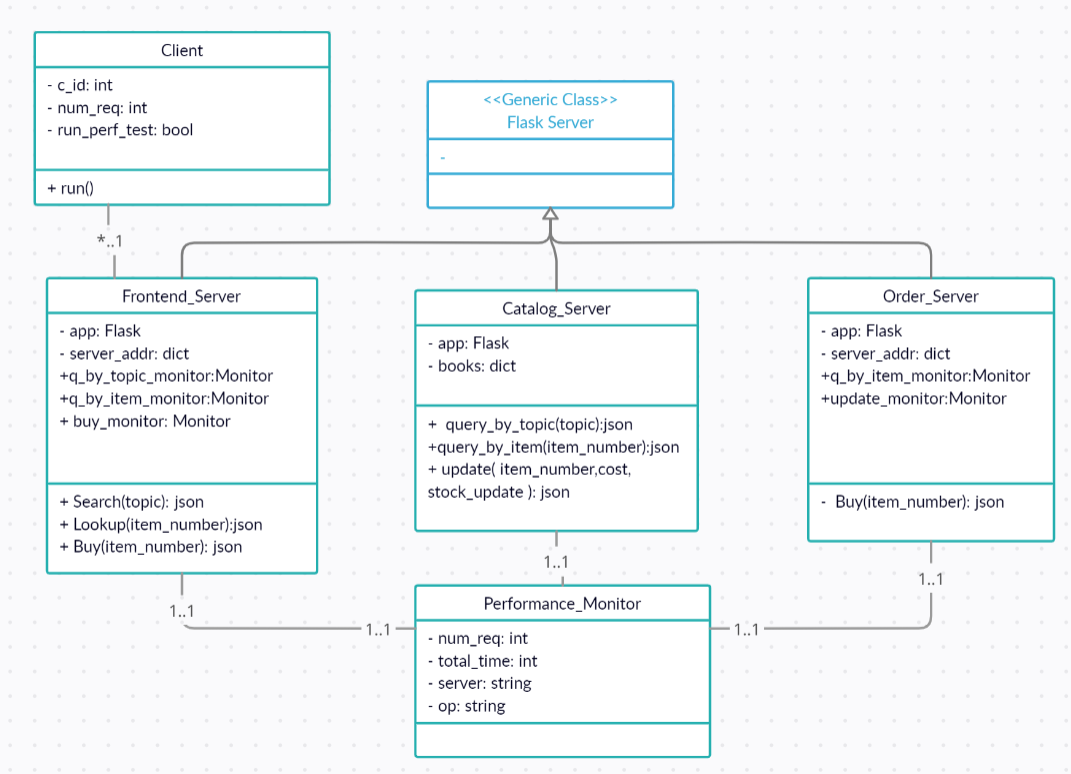
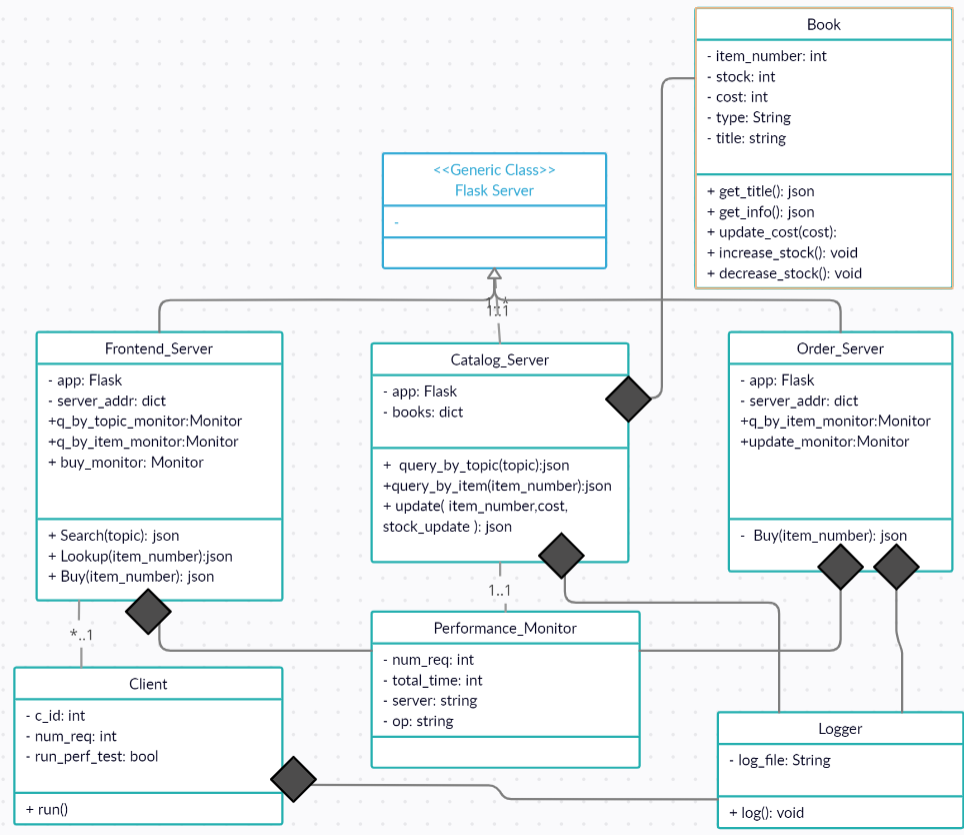
update class diagram

Changed region(s): [[0.0, 0.0, 1.0, 1.0], [0.0311, 0.031, 0.3112, 0.186], [0.0311, 0.2171, 0.3112, 0.2791]]

diff --git a/src/catalog_server.py b/src/catalog_server.py
@@ -3,6 +3,7 @@ import json
 from flask import Flask, redirect, jsonify, request
 import threading
 from logger import Logger
+from book import Book
 
 #Create the book store catalog end server instance
 app = Flask(__name__)
@@ -14,35 +15,6 @@ lock = threading.Lock()
 
 #logger used to store log
 logger = Logger('./output/catalog_log')
-
-#book data structure
-class Book(object):
-	#book constructor
-    def __init__(self, item_number, stock, cost, type, title):
-        self.item_number = item_number
-        self.stock = stock
-        self.cost = cost
-        self.type = type
-        self.title = title
-	#decrease number of book
-    def decrement(self):
-        if self.stock == 0:
-            return False
-        self.stock -= 1
-        return True
-	#increase number of book
-    def increment(self):
-        self.stock += 1
-	#update cost of book
-    def update_cost(self, cost):
-        self.cost = cost
-	#get book's detail information
-    def get_info(self):
-        return {'item_number':self.item_number, 'stock':self.stock, 'cost':self.cost
-                , 'type':self.type, 'title':self.title}
-	#get book title and item number (for search request)
-    def get_title(self):
-        return {'item_number':self.item_number, 'title':self.title}
 
 #Perform inference request 
 #input: search topic
@@ -95,7 +67,7 @@ def update():
 		book.update_cost(cost)
 	#update stock if any request
 	if stock != 'na':
-		if book.decrement() == False:
+		if book.decrease_stock() == False:
 			res['result'] = 'Failed'
 	lock.release()
 	

diff --git a/src/book.py b/src/book.py
@@ -1,0 +1,28 @@
+#book data structure
+class Book(object):
+	#book constructor
+    def __init__(self, item_number, stock, cost, type, title):
+        self.item_number = item_number
+        self.stock = stock
+        self.cost = cost
+        self.type = type
+        self.title = title
+	#decrease number of book
+    def decrease_stock(self):
+        if self.stock == 0:
+            return False
+        self.stock -= 1
+        return True
+	#increase number of book
+    def increase_stock(self):
+        self.stock += 1
+	#update cost of book
+    def update_cost(self, cost):
+        self.cost = cost
+	#get book's detail information
+    def get_info(self):
+        return {'item_number':self.item_number, 'stock':self.stock, 'cost':self.cost
+                , 'type':self.type, 'title':self.title}
+	#get book title and item number (for search request)
+    def get_title(self):
+        return {'item_number':self.item_number, 'title':self.title}
